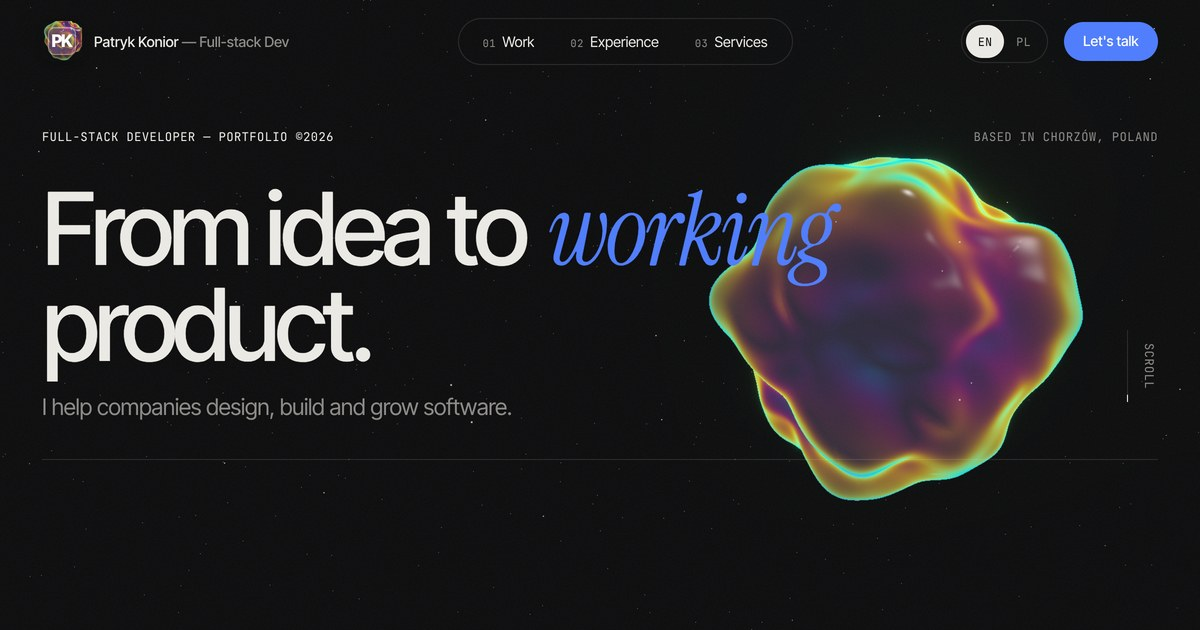
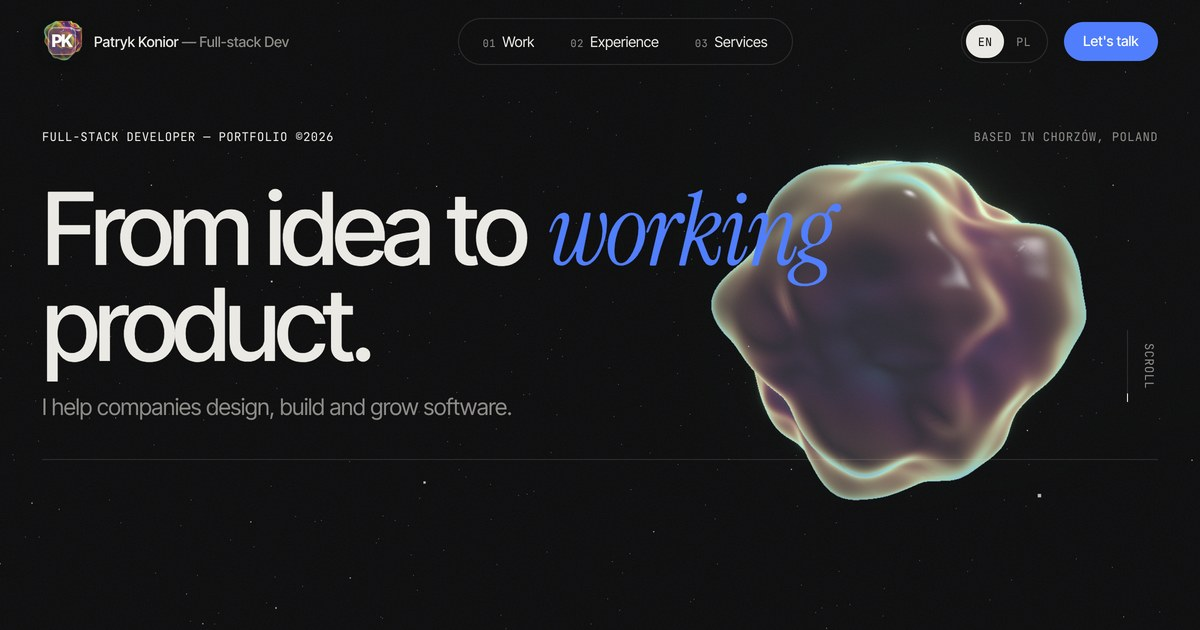
Refresh link-preview images with the pearl blob (?v=5)

Changed region(s): [[0.5858, 0.2413, 0.925, 0.8143], [0.6475, 0.4524, 0.6783, 0.5127]]

diff --git a/index.html b/index.html
@@ -18,7 +18,7 @@
     <meta property="og:site_name" content="Patryk Konior" />
     <meta property="og:title" content="Patryk Konior — Full-stack Developer" />
     <meta property="og:description" content="Web, mobile and desktop apps, real-time APIs and deployments with Elixir & Phoenix, Node.js, .NET, React and Svelte. Available for B2B projects." />
-    <meta property="og:image" content="/og-image-en.jpg?v=4" />
+    <meta property="og:image" content="/og-image-en.jpg?v=5" />
     <meta property="og:image:width" content="1200" />
     <meta property="og:image:height" content="630" />
     <meta property="og:image:alt" content="Patryk Konior — Full-stack Developer" />
@@ -27,7 +27,7 @@
     <meta name="twitter:card" content="summary_large_image" />
     <meta name="twitter:title" content="Patryk Konior — Full-stack Developer" />
     <meta name="twitter:description" content="Web, mobile and desktop apps, real-time APIs and deployments with Elixir & Phoenix, Node.js, .NET, React and Svelte." />
-    <meta name="twitter:image" content="/og-image-en.jpg?v=4" />
+    <meta name="twitter:image" content="/og-image-en.jpg?v=5" />
   </head>
   <body>
     <noscript>Patryk Konior — Full-stack Developer. Web apps, real-time APIs and deployments. Contact: patrykkonior4@gmail.com</noscript>

diff --git a/worker/index.js b/worker/index.js
@@ -115,7 +115,7 @@ const isMirror = (hostname) =>
 const PL = {
     description: "Patryk Konior, full-stack developer z Polski (B2B). Aplikacje webowe, mobilne i desktopowe, API czasu rzeczywistego i wdrożenia w Elixir & Phoenix, Node.js, .NET, React i Svelte.",
     ogDescription: "Aplikacje webowe, mobilne i desktopowe, API czasu rzeczywistego i wdrożenia w Elixir & Phoenix, Node.js, .NET, React i Svelte. Dostępny do projektów B2B.",
-    image: `${SITE}/og-image-pl.jpg?v=4`,
+    image: `${SITE}/og-image-pl.jpg?v=5`,
     url: `${SITE}/?lang=pl`,
 };
 
